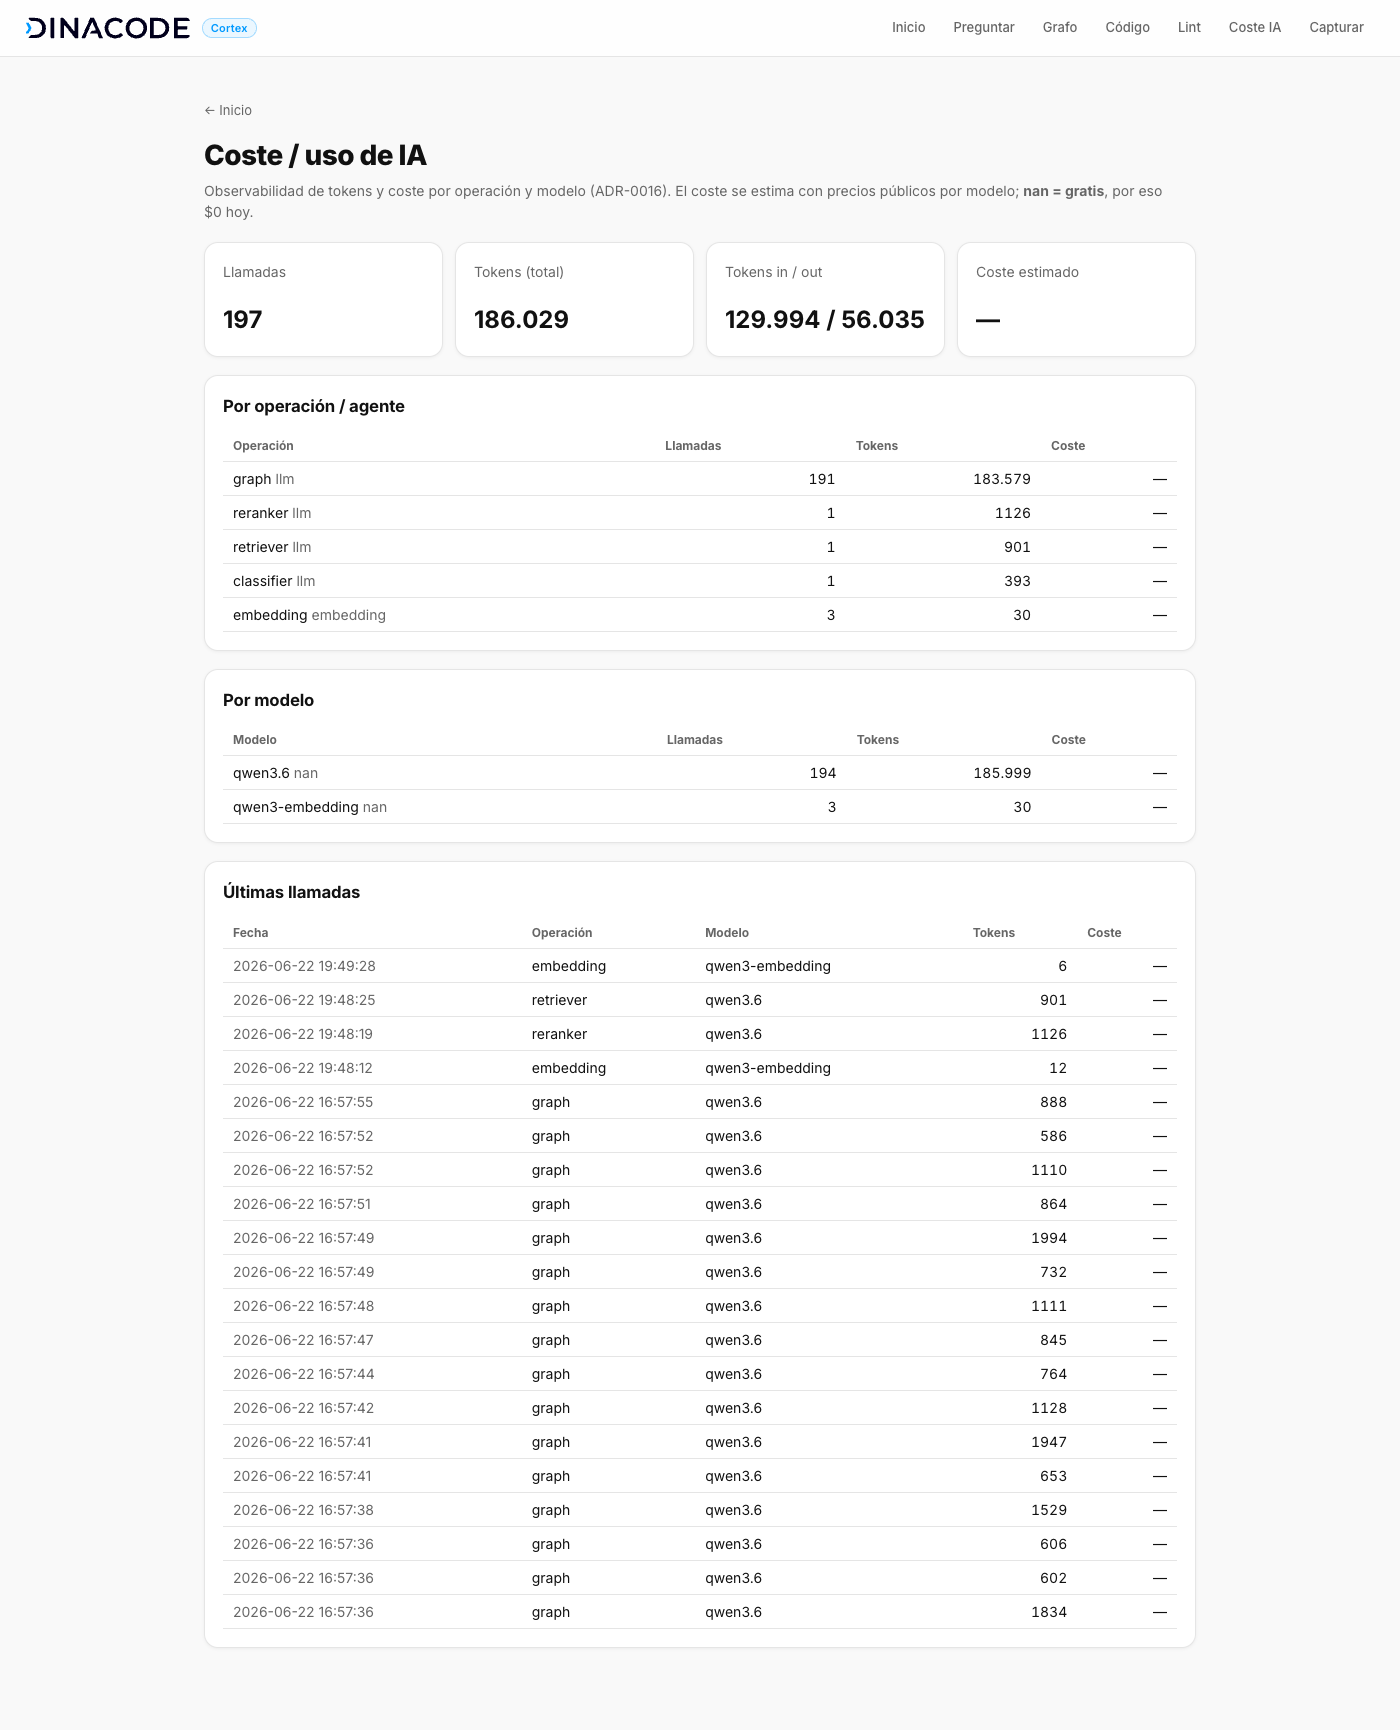
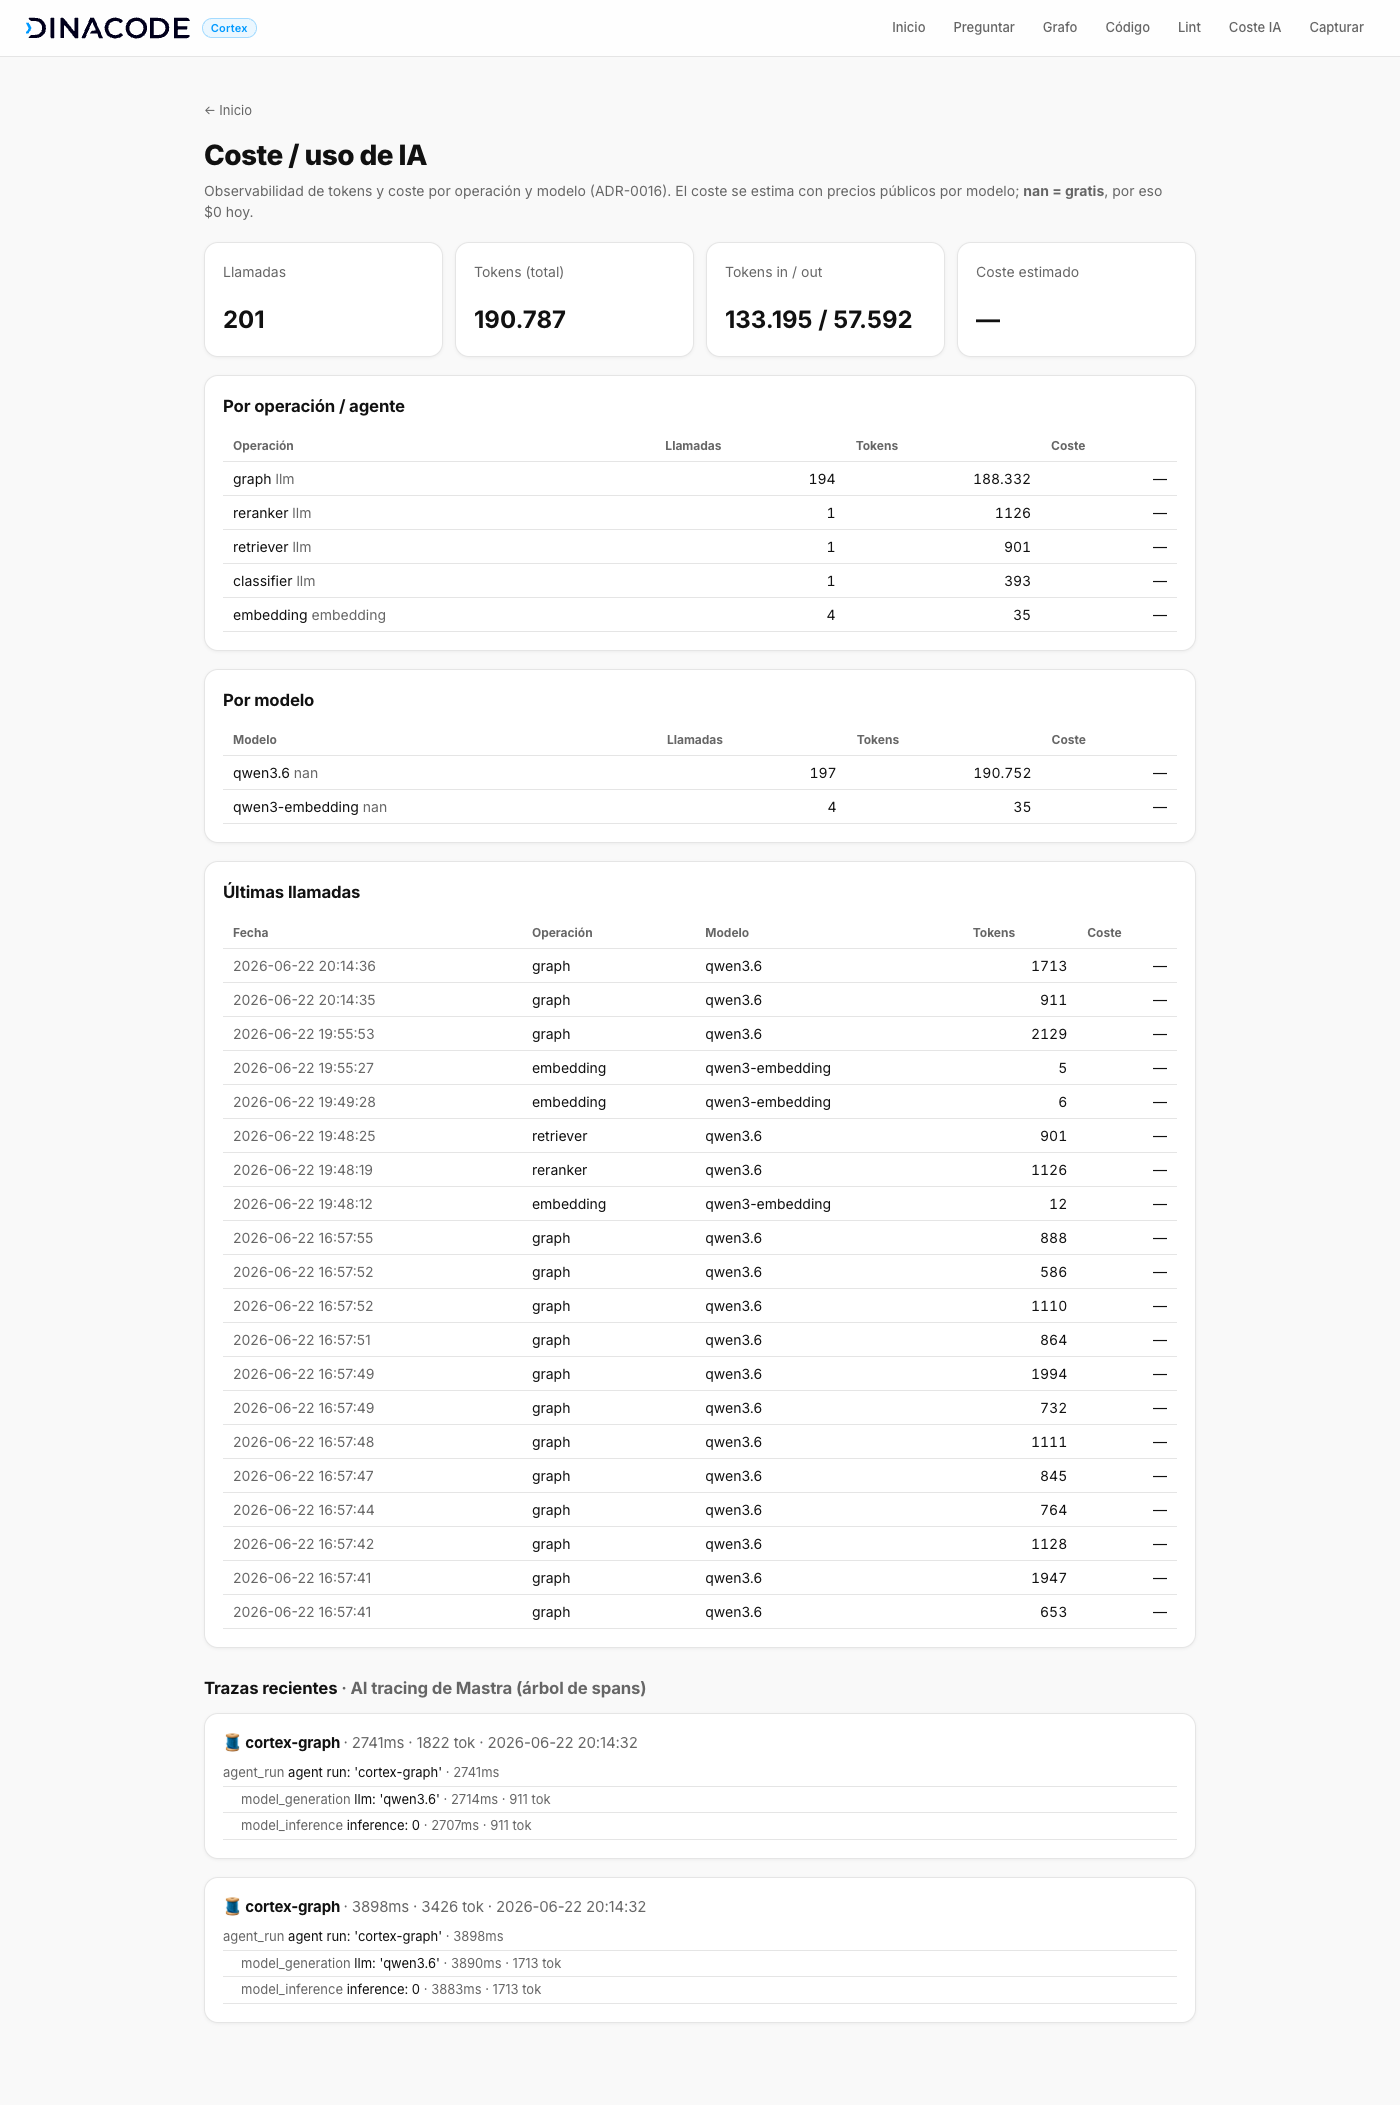
feat: observabilidad B — AI tracing de Mastra a Postgres + UI de trazas
Los Agents se sirven desde una instancia Mastra con Observability y un exporter
propio (CortexTraceExporter) que persiste cada span (agent_run → model_generation
→ model_inference…) en ai_traces (migración 0006) de nuestra Postgres. Se descartó
el storage propio de Mastra (@mastra/pg/libsql) por fricción; el exporter inserta
inmediato (fiable en CLI). enrich llama shutdownObservability() antes de exit.

- /usage ahora muestra coste (A) + árbol de Trazas recientes (B).
- getRecentTraces() en core; model_chunk/step filtrados como ruido.
- Captura /usage regenerada (coste + trazas). ADR-0016 (B) y README.

Verificado: enrich genera agent_run/model_generation con tokens y latencia; sale limpio.

diff --git a/apps/web/src/index.ts b/apps/web/src/index.ts
@@ -10,6 +10,7 @@ import {
   getContextPack,
   getEntryDetail,
   getProjectGraph,
+  getRecentTraces,
   getUsageSummary,
   lintProject,
   listEntries,
@@ -403,6 +404,7 @@ app.get("/lint", async (c) => {
 // --- Coste / uso de IA -------------------------------------------------------
 app.get("/usage", async (c) => {
   const u = await getUsageSummary();
+  const traces = await getRecentTraces(12);
   const num = (n: number) => n.toLocaleString("es-ES");
   const money = (n: number) => (n > 0 ? `$${n.toFixed(4)}` : "—");
   const th = 'style="text-align:left;padding:6px 10px;border-bottom:1px solid var(--color-border);font-size:12px;color:var(--color-text-muted)"';
@@ -423,6 +425,27 @@ app.get("/usage", async (c) => {
   const table = (head: string, rows: string) =>
     `<table style="width:100%;border-collapse:collapse">${head}${rows || `<tr><td ${td} colspan="5"><span class="sub">Sin datos todavía.</span></td></tr>`}</table>`;
 
+  const spanRow = (s: (typeof traces)[number]["spans"][number]) => {
+    const indent = s.parentSpanId ? 18 : 0;
+    const toks = (s.inputTokens ?? 0) + (s.outputTokens ?? 0);
+    return `<div style="padding:3px 0;padding-left:${indent}px;border-bottom:1px solid var(--color-border);font-size:13px">
+      <span class="sub" style="font-variant-numeric:tabular-nums">${esc(s.spanType ?? "")}</span>
+      ${esc((s.name ?? s.entityName ?? "").slice(0, 80))}
+      ${s.durationMs != null ? `<span class="sub"> · ${num(s.durationMs)}ms</span>` : ""}
+      ${toks ? `<span class="sub"> · ${num(toks)} tok</span>` : ""}
+      ${s.status === "error" ? " ⚠" : ""}</div>`;
+  };
+  const tracesHtml = traces.length
+    ? traces
+        .map(
+          (t) =>
+            `<div class="panel"><h2 style="font-size:15px;margin-bottom:6px">🧵 ${esc(t.rootName)}
+              <span class="sub" style="font-weight:400"> · ${num(t.totalDurationMs)}ms · ${num(t.totalTokens)} tok · ${esc(t.startedAt.replace("T", " ").slice(0, 19))}</span></h2>
+              ${t.spans.map(spanRow).join("")}</div>`,
+        )
+        .join("")
+    : `<div class="panel"><span class="sub">Sin trazas todavía. Ejecuta una operación con LLM (ask, enrich…).</span></div>`;
+
   const body = `
     <p><a class="back" href="/">← Inicio</a></p>
     <h1>Coste / uso de IA</h1>
@@ -435,7 +458,9 @@ app.get("/usage", async (c) => {
     </div>
     <div class="panel"><h2>Por operación / agente</h2>${table(`<tr><th ${th}>Operación</th><th ${th} style="text-align:right">Llamadas</th><th ${th} style="text-align:right">Tokens</th><th ${th} style="text-align:right">Coste</th></tr>`, opRows)}</div>
     <div class="panel"><h2>Por modelo</h2>${table(`<tr><th ${th}>Modelo</th><th ${th} style="text-align:right">Llamadas</th><th ${th} style="text-align:right">Tokens</th><th ${th} style="text-align:right">Coste</th></tr>`, modelRows)}</div>
-    <div class="panel"><h2>Últimas llamadas</h2>${table(`<tr><th ${th}>Fecha</th><th ${th}>Operación</th><th ${th}>Modelo</th><th ${th} style="text-align:right">Tokens</th><th ${th} style="text-align:right">Coste</th></tr>`, recentRows)}</div>`;
+    <div class="panel"><h2>Últimas llamadas</h2>${table(`<tr><th ${th}>Fecha</th><th ${th}>Operación</th><th ${th}>Modelo</th><th ${th} style="text-align:right">Tokens</th><th ${th} style="text-align:right">Coste</th></tr>`, recentRows)}</div>
+    <h2 style="margin-top:28px">Trazas recientes <span class="sub">· AI tracing de Mastra (árbol de spans)</span></h2>
+    ${tracesHtml}`;
   return c.html(layout("Coste IA", body));
 });
 

diff --git a/packages/core/src/usage.ts b/packages/core/src/usage.ts
@@ -99,6 +99,71 @@ export async function getUsageSummary(): Promise<UsageSummary> {
   };
 }
 
+// --- Trazas de IA (observabilidad B: spans de Mastra en ai_traces) -----------
+export interface TraceSpan {
+  spanId: string;
+  parentSpanId: string | null;
+  name: string | null;
+  spanType: string | null;
+  entityName: string | null;
+  model: string | null;
+  inputTokens: number | null;
+  outputTokens: number | null;
+  durationMs: number | null;
+  status: string | null;
+}
+export interface TraceTree {
+  traceId: string;
+  startedAt: string;
+  rootName: string;
+  totalDurationMs: number;
+  totalTokens: number;
+  spans: TraceSpan[];
+}
+
+/** Últimas N trazas (árbol de spans por trace_id), recientes primero. */
+export async function getRecentTraces(limit = 15): Promise<TraceTree[]> {
+  const sql = getSql();
+  type R = Record<string, unknown>;
+  const rows = (await sql`
+    WITH recent AS (
+      SELECT trace_id, max(started_at) AS ts FROM ai_traces
+      GROUP BY trace_id ORDER BY ts DESC LIMIT ${limit}
+    )
+    SELECT a.*, r.ts AS _ts FROM ai_traces a JOIN recent r ON r.trace_id = a.trace_id
+    ORDER BY r.ts DESC, a.started_at ASC NULLS LAST
+  `) as unknown as R[];
+
+  const byTrace = new Map<string, TraceTree>();
+  for (const r of rows) {
+    const tid = String(r.trace_id);
+    let t = byTrace.get(tid);
+    if (!t) {
+      t = { traceId: tid, startedAt: new Date(r._ts as string).toISOString(), rootName: "", totalDurationMs: 0, totalTokens: 0, spans: [] };
+      byTrace.set(tid, t);
+    }
+    const span: TraceSpan = {
+      spanId: String(r.span_id),
+      parentSpanId: (r.parent_span_id as string) ?? null,
+      name: (r.name as string) ?? null,
+      spanType: (r.span_type as string) ?? null,
+      entityName: (r.entity_name as string) ?? null,
+      model: (r.model as string) ?? null,
+      inputTokens: r.input_tokens == null ? null : Number(r.input_tokens),
+      outputTokens: r.output_tokens == null ? null : Number(r.output_tokens),
+      durationMs: r.duration_ms == null ? null : Number(r.duration_ms),
+      status: (r.status as string) ?? null,
+    };
+    t.spans.push(span);
+    if (!r.parent_span_id || r.span_type === "agent_run") {
+      t.rootName = span.entityName || span.name || span.spanType || "traza";
+      t.totalDurationMs = span.durationMs ?? t.totalDurationMs;
+    }
+    t.totalTokens += (span.inputTokens ?? 0) + (span.outputTokens ?? 0);
+  }
+  return [...byTrace.values()];
+}
+
 // Registra el uso de embeddings (el paquete embeddings emite tokens vía su sink).
 setEmbeddingUsageSink((u) => {
   void recordUsage({

diff --git a/packages/agents/src/mastra.ts b/packages/agents/src/mastra.ts
@@ -1,7 +1,10 @@
 import { createOpenAICompatible } from "@ai-sdk/openai-compatible";
 import { Agent } from "@mastra/core/agent";
+import { Mastra } from "@mastra/core";
+import { Observability } from "@mastra/observability";
 import { recordUsage } from "@cortex/core";
 import { getLlmConfig } from "./openrouter.js";
+import { CortexTraceExporter } from "./trace-exporter.js";
 
 /**
  * Agentes de Mastra de Cortex (§7). Un Agent por rol del pipeline de inteligencia:
@@ -50,9 +53,9 @@ const jsonFetch: typeof fetch = async (url, init) => {
   return fetch(url as Parameters<typeof fetch>[0], init);
 };
 
-let cache: Record<AgentRole, Agent> | null | undefined;
+let mastra: Mastra | null | undefined;
 
-function build(): Record<AgentRole, Agent> | null {
+function build(): Mastra | null {
   const cfg = getLlmConfig();
   if (!cfg) return null;
   const model = (json: boolean) =>
@@ -71,13 +74,32 @@ function build(): Record<AgentRole, Agent> | null {
       instructions: INSTRUCTIONS[role],
       model: JSON_ROLES.has(role) ? jsonModel : textModel,
     });
-  return { classifier: mk("classifier"), graph: mk("graph"), reranker: mk("reranker"), retriever: mk("retriever") };
+  // Instancia Mastra: agentes registrados + observabilidad (AI tracing) hacia
+  // nuestro exporter (ADR-0016 parte B). Los agentes se sirven desde aquí para
+  // que `generate()` emita spans.
+  return new Mastra({
+    agents: { classifier: mk("classifier"), graph: mk("graph"), reranker: mk("reranker"), retriever: mk("retriever") },
+    observability: new Observability({
+      configs: { default: { serviceName: "cortex", exporters: [new CortexTraceExporter()] } },
+    }),
+  } as ConstructorParameters<typeof Mastra>[0]);
 }
 
 /** Devuelve el Agent del rol, o null si no hay LLM configurado. */
 export function getAgent(role: AgentRole): Agent | null {
-  if (cache === undefined) cache = build();
-  return cache ? cache[role] : null;
+  if (mastra === undefined) mastra = build();
+  return mastra ? (mastra.getAgent(role) as Agent) : null;
+}
+
+/** Flushea/cierra la observabilidad (para CLIs que terminan con process.exit). */
+export async function shutdownObservability(): Promise<void> {
+  if (mastra) {
+    try {
+      await (mastra as unknown as { shutdown?: () => Promise<void> }).shutdown?.();
+    } catch {
+      /* best-effort */
+    }
+  }
 }
 
 /** Ejecuta el agente del rol y devuelve su texto. Lanza si no hay LLM. */

diff --git a/packages/agents/src/trace-exporter.ts b/packages/agents/src/trace-exporter.ts
@@ -1,0 +1,48 @@
+import { getSql } from "@cortex/database";
+
+/**
+ * Exporter de observabilidad propio (ADR-0016, parte B): recibe los eventos de
+ * tracing de los Agents de Mastra y persiste cada span (cuando termina) en la tabla
+ * `ai_traces` de nuestra Postgres. Así tenemos el árbol de spans (agent_run →
+ * model_generation → model_inference…) con latencia, jerarquía, modelo y tokens,
+ * sin depender del storage propio de Mastra. Best-effort: nunca rompe el agente.
+ *
+ * Inserta de forma inmediata por span (sin buffer) → fiable también en CLIs que
+ * terminan con process.exit.
+ */
+export class CortexTraceExporter {
+  readonly name = "cortex-traces";
+
+  async exportTracingEvent(event: unknown): Promise<void> {
+    try {
+      const ev = event as { type?: string; exportedSpan?: Record<string, unknown>; span?: Record<string, unknown> };
+      if (ev?.type !== "span_ended") return;
+      const s = (ev.exportedSpan ?? ev.span) as Record<string, any> | undefined;
+      if (!s || s.isEvent) return;
+      if (s.type === "model_chunk" || s.type === "model_step") return; // ruido por token
+
+      const attrs = (s.attributes ?? {}) as Record<string, any>;
+      const usage = (attrs.usage ?? {}) as Record<string, any>;
+      const start = s.startTime ? new Date(s.startTime) : null;
+      const end = s.endTime ? new Date(s.endTime) : null;
+      const durationMs = start && end ? end.getTime() - start.getTime() : null;
+      const status = s.errorInfo ? "error" : "ok";
+
+      await getSql()`
+        INSERT INTO ai_traces (span_id, trace_id, parent_span_id, name, span_type, entity_name,
+                               model, input_tokens, output_tokens, started_at, ended_at, duration_ms, status, attributes)
+        VALUES (${s.id}, ${s.traceId}, ${s.parentSpanId ?? null}, ${s.name ?? null}, ${s.type ?? null},
+                ${s.entityName ?? null}, ${attrs.model ?? attrs.responseModel ?? null},
+                ${usage.inputTokens ?? null}, ${usage.outputTokens ?? null},
+                ${start}, ${end}, ${durationMs}, ${status},
+                ${getSql().json(attrs as Parameters<ReturnType<typeof getSql>["json"]>[0])})
+        ON CONFLICT (span_id) DO NOTHING
+      `;
+    } catch (e) {
+      console.error("[trace-exporter] fallo (ignorado):", (e as Error).message);
+    }
+  }
+
+  async flush(): Promise<void> {}
+  async shutdown(): Promise<void> {}
+}

diff --git a/packages/agents/src/enrich-run.ts b/packages/agents/src/enrich-run.ts
@@ -1,6 +1,7 @@
 import { closeSql, getSql } from "@cortex/database";
 import { linkEntryToEntity, listEntries, relate, resolveEntity } from "@cortex/core";
 import { extractGraph } from "./enrich.js";
+import { shutdownObservability } from "./mastra.js";
 
 /**
  * Pase de enriquecimiento de grafo (§7/§12.4): recorre las entradas de un proyecto,
@@ -97,6 +98,7 @@ main()
     process.exitCode = 1;
   })
   .finally(async () => {
+    await shutdownObservability(); // flush de spans de tracing (ADR-0016 B)
     await closeSql();
     // Los Agents de Mastra (@ai-sdk) dejan handles abiertos que impiden que el
     // proceso salga; en un CLI forzamos la salida tras cerrar la BD.

diff --git a/packages/core/src/index.ts b/packages/core/src/index.ts
@@ -5,7 +5,7 @@ export { lintProject, renderLintReport, type LintReport } from "./lint.js";
 export { searchProjectCode, indexRepo, renderCodeHits, type CodeHit } from "./code.js";
 export { applyTemporalInvalidation } from "./temporal.js";
 export { storeEmbeddingsBatch } from "./vectors.js";
-export { recordUsage, getUsageSummary, type UsageRecord, type UsageSummary } from "./usage.js";
+export { recordUsage, getUsageSummary, getRecentTraces, type UsageRecord, type UsageSummary, type TraceTree, type TraceSpan } from "./usage.js";
 export { resolveEntity, relate, linkEntryToEntity } from "./entities.js";
 export {
   classifyType,

diff --git a/packages/agents/src/index.ts b/packages/agents/src/index.ts
@@ -1,5 +1,5 @@
 export { isLlmEnabled, getLlmConfig, type LlmConfig } from "./openrouter.js";
-export { getAgent, runAgent, type AgentRole } from "./mastra.js";
+export { getAgent, runAgent, shutdownObservability, type AgentRole } from "./mastra.js";
 export { classifyEntry, type ClassificationResult } from "./classify.js";
 export { extractGraph, type GraphExtraction } from "./enrich.js";
 export { synthesizeContextAnswer, type ContextSnippet } from "./synthesize.js";

diff --git a/docs/decisions.md b/docs/decisions.md
@@ -254,7 +254,16 @@ Formato: estado · contexto · decisión · alternativas · cuándo revisar.
   **sink** (`@cortex/embeddings` es hoja, no acopla a core). Tabla de precios por
   modelo para **estimar** coste (nan = 0). Panel en la UI (`/usage`): totales,
   por operación/agente, por modelo y últimas llamadas.
-- **Decisión (B — Mastra):** instancia de Mastra con AI tracing/telemetry para
-  trazas por agente (token usage + latencia). *(Ver commit de B.)*
-- **Revisar cuando:** queramos coste por proyecto (propagar `project` a `recordUsage`),
-  presupuestos/alertas, o exportar a un backend de observabilidad (OTel/Langfuse).
+- **Decisión (B — Mastra AI tracing):** los Agents se sirven desde una instancia
+  `Mastra` con `Observability` (`@mastra/observability`) y un **exporter propio**
+  (`CortexTraceExporter`) que persiste cada span (`agent_run → model_generation →
+  model_inference…`) en la tabla `ai_traces` (migración 0006) de nuestra Postgres.
+  Se descartó el storage propio de Mastra (`@mastra/pg`/`libsql`) por fricción
+  (init `id`, spans no persistían); el exporter propio inserta inmediato (fiable en
+  CLI). Los CLI llaman `shutdownObservability()` antes de `process.exit` para flushar.
+  La UI `/usage` muestra coste (A) + **árbol de trazas** (B). model_chunk/step se
+  filtran como ruido.
+- **Revisar cuando:** queramos coste por proyecto (propagar `project`),
+  presupuestos/alertas, una página de traza individual, o un bridge OTel/Langfuse
+  (la config lo soporta). Pendiente menor: silenciar el warning de in-memory store de
+  Mastra (no usamos su storage).

diff --git a/README.md b/README.md
@@ -47,8 +47,8 @@ proyecto o persona.
 - **Multi-fuente** — ingesta desde Plane, Google Chat, GitHub y repos de código,
   unificadas en un mismo grafo.
 - **MCP corporativo** — 8 tools neutras consumibles por Claude Code / Codex / OpenCode.
-- **Observabilidad de coste IA** — tokens y coste estimado por operación/agente y
-  modelo (LLM + embeddings), con panel `/usage`.
+- **Observabilidad de IA** — coste/tokens por operación, agente y modelo (LLM +
+  embeddings) **+ AI tracing de Mastra** (árbol de spans por llamada), en `/usage`.
 - **Harness distribuible** — `cortex sync` instala el MCP + skills + comandos del
   toolbelt de Dinacode en los agentes del dev.
 
